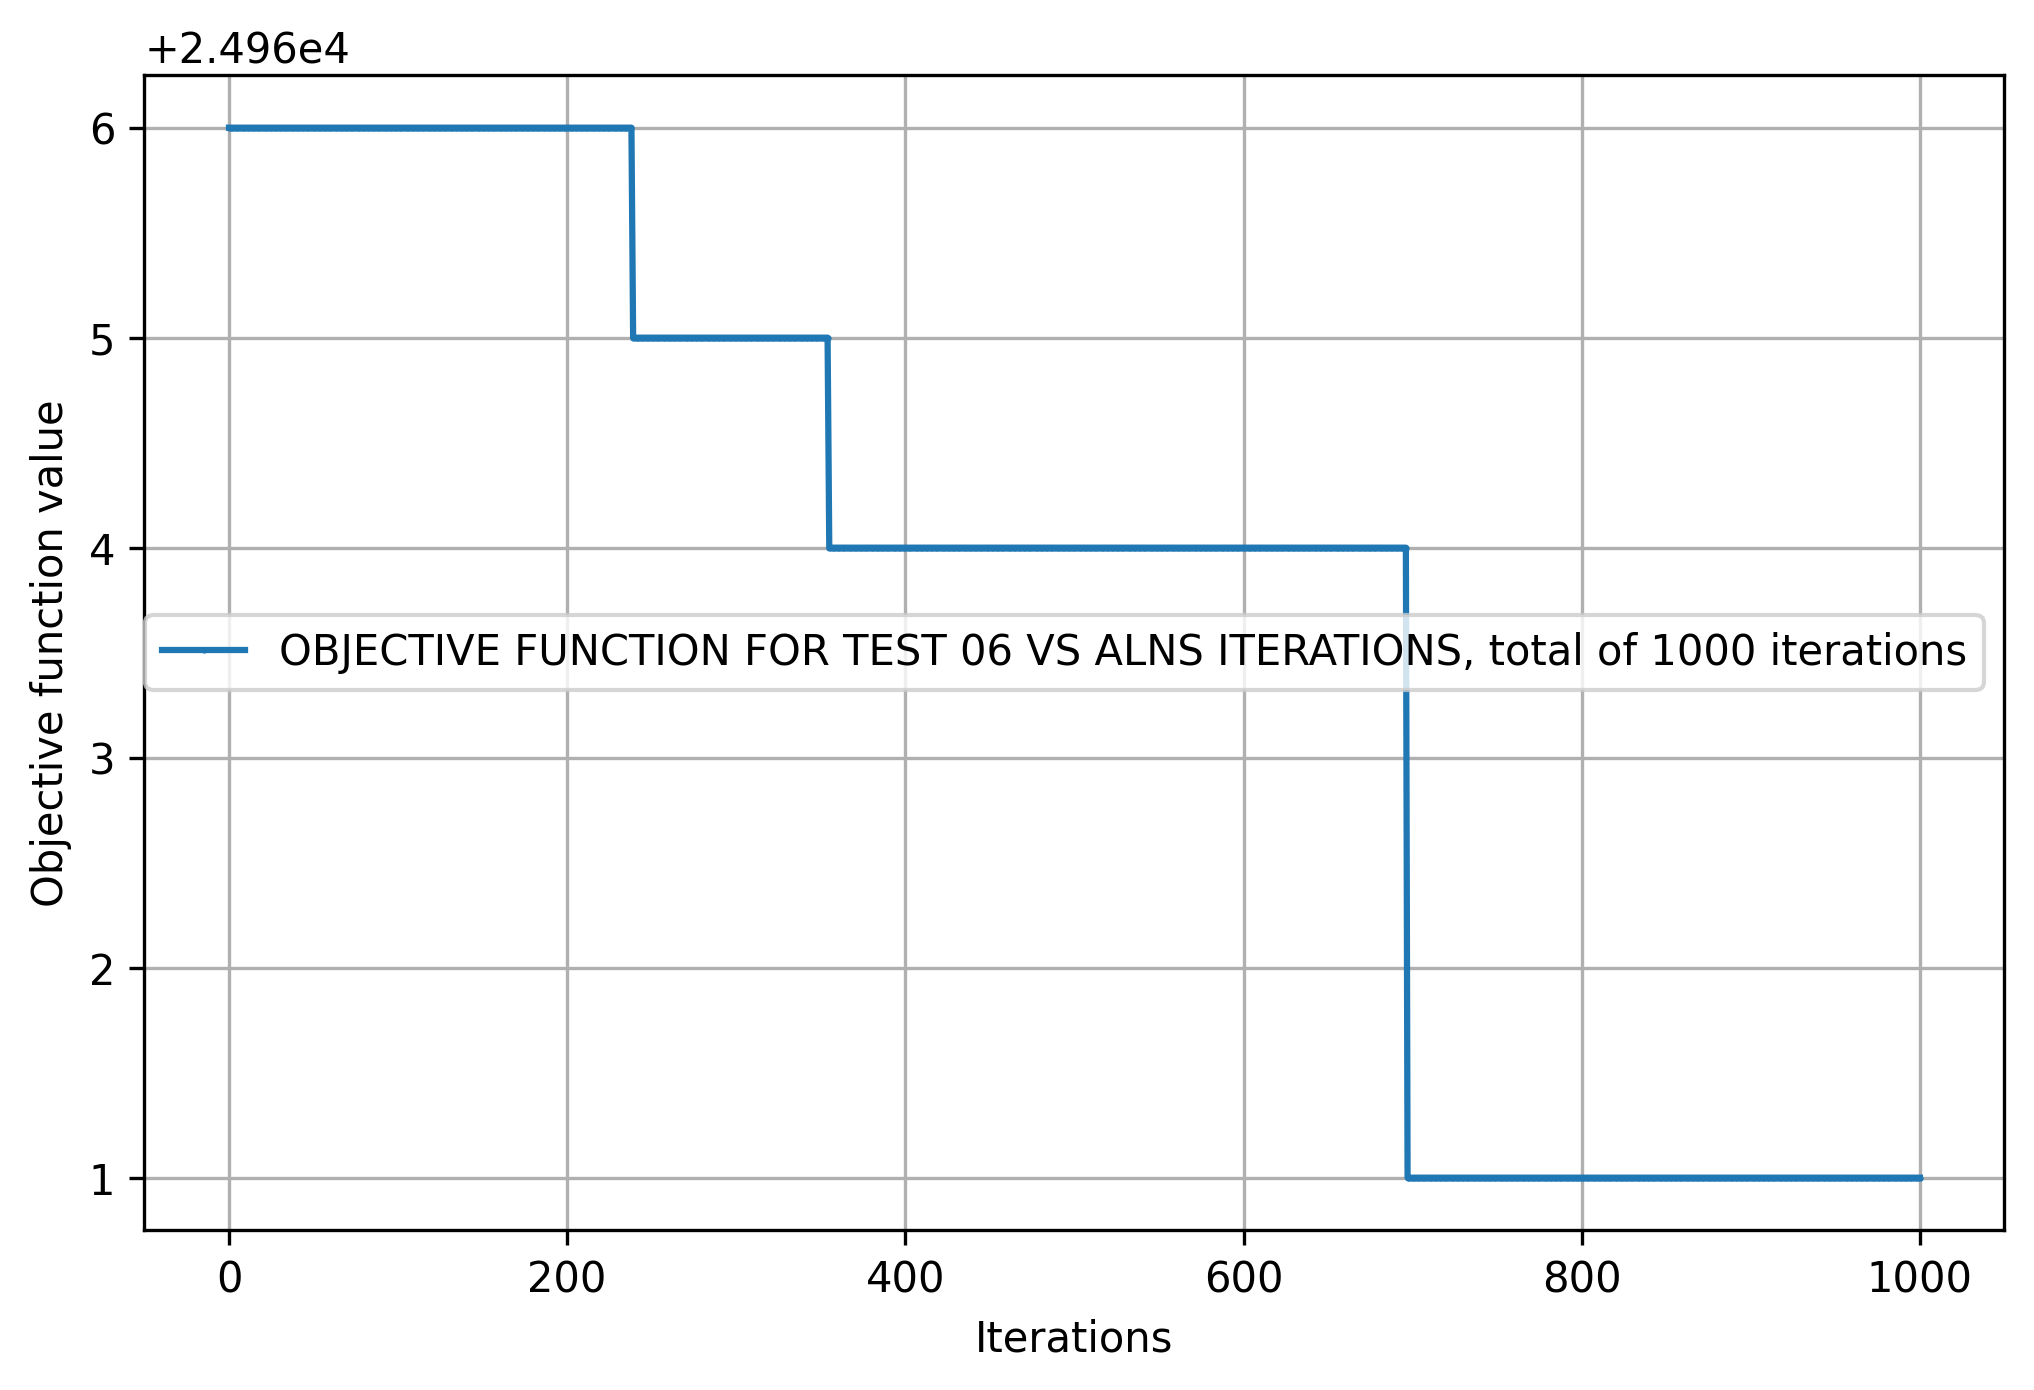
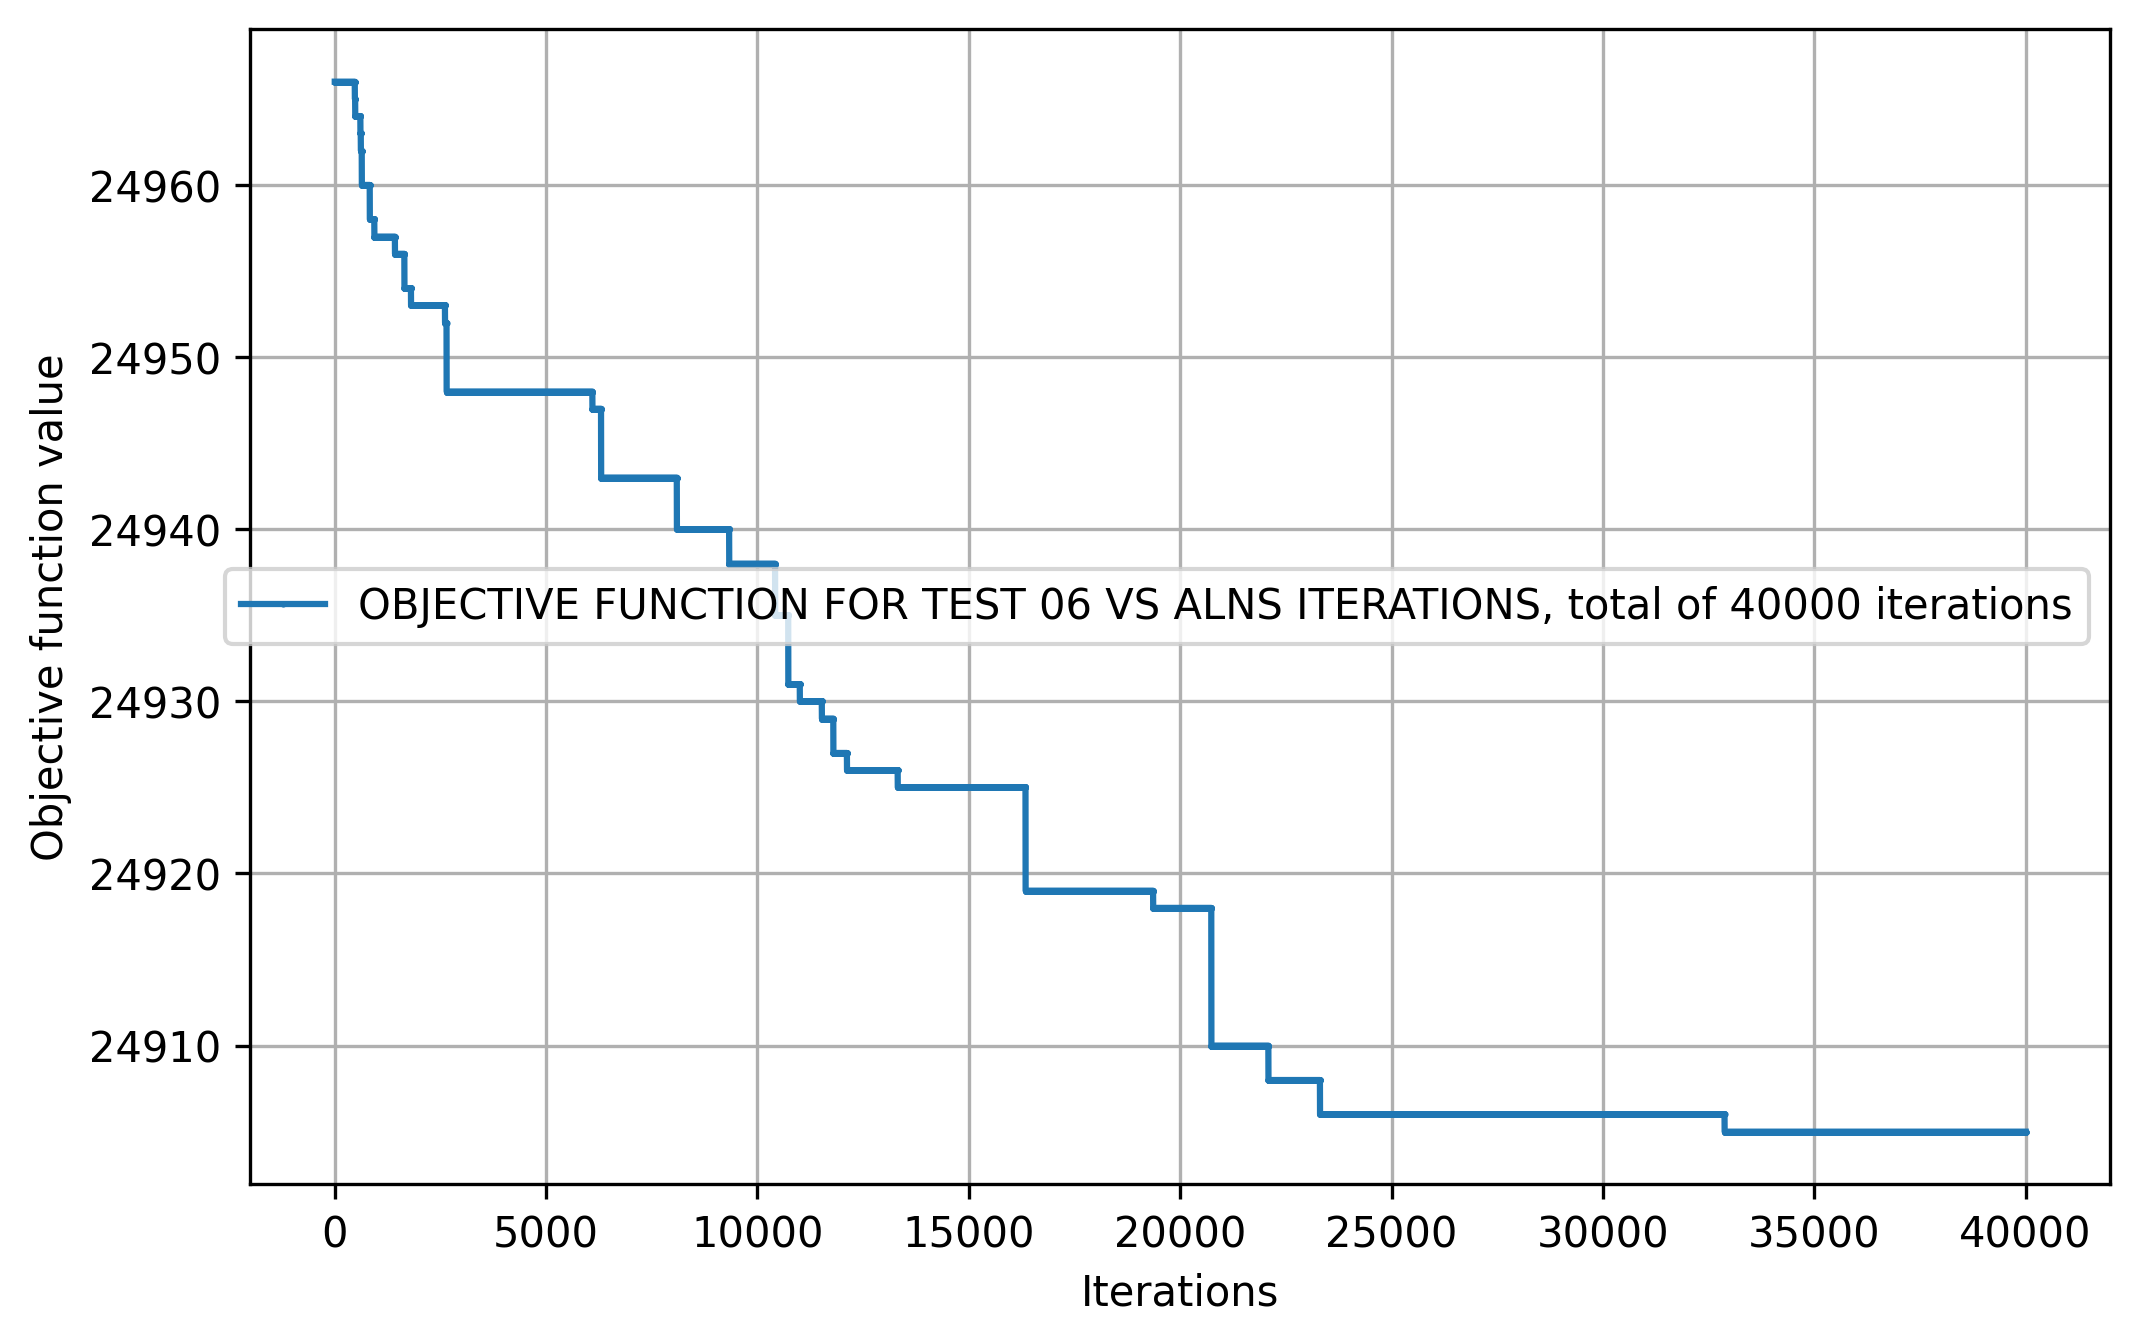
test

diff --git a/main.py b/main.py
@@ -154,14 +154,14 @@ def main():
 
     # solving the problem
 
-    number_of_iterations = 1000
+    number_of_iterations = 40000
 
     solver = ALNS(problem, init_solution)
 
 
-    Gamma = 2
-    rho = 0.1
-    Delta = [15,7,1,0.5]   # vector of increasing the weights of the destroy and repair
+    Gamma = 0.9
+    rho = 0.001
+    Delta = [8,5,1.5,0.5]   # vector of increasing the weights of the destroy and repair
 
     final_solution, final_problem, x_plot, y_plot, destroy_prob_vec, repair_prob_vec, time_destroy, time_repair = solver.solve(number_of_iterations, Gamma, rho, Delta)
 
